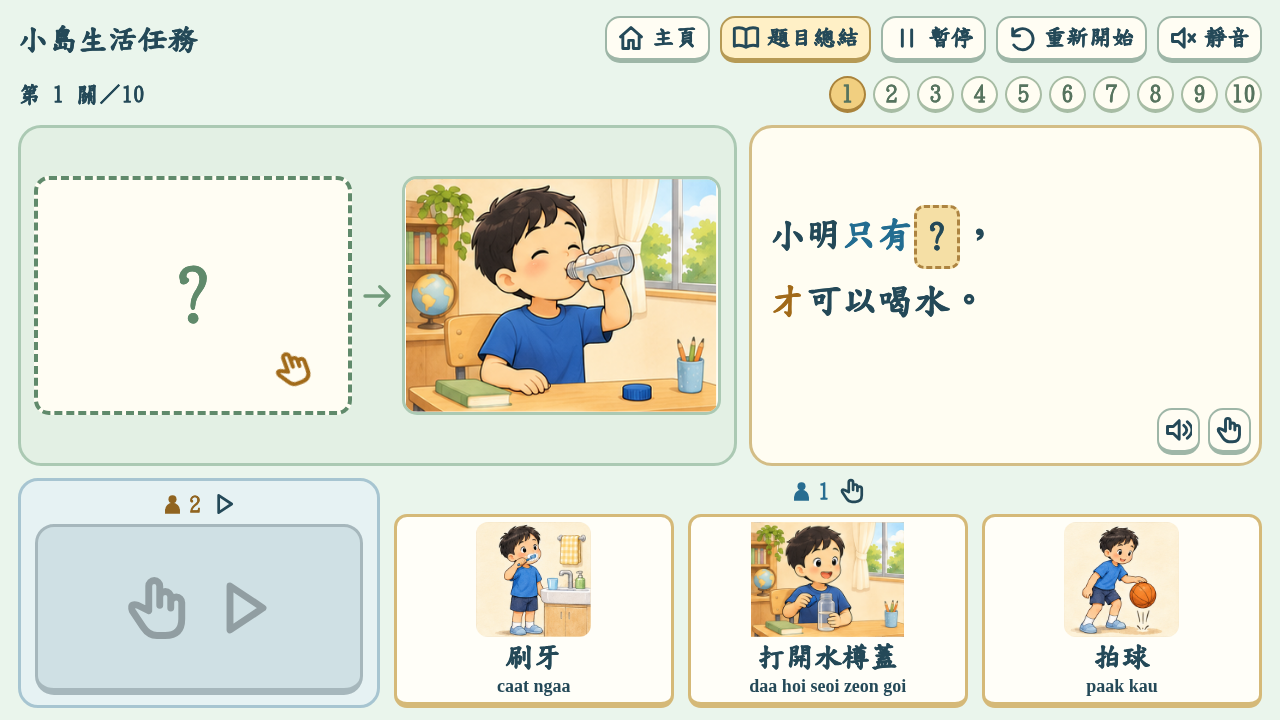
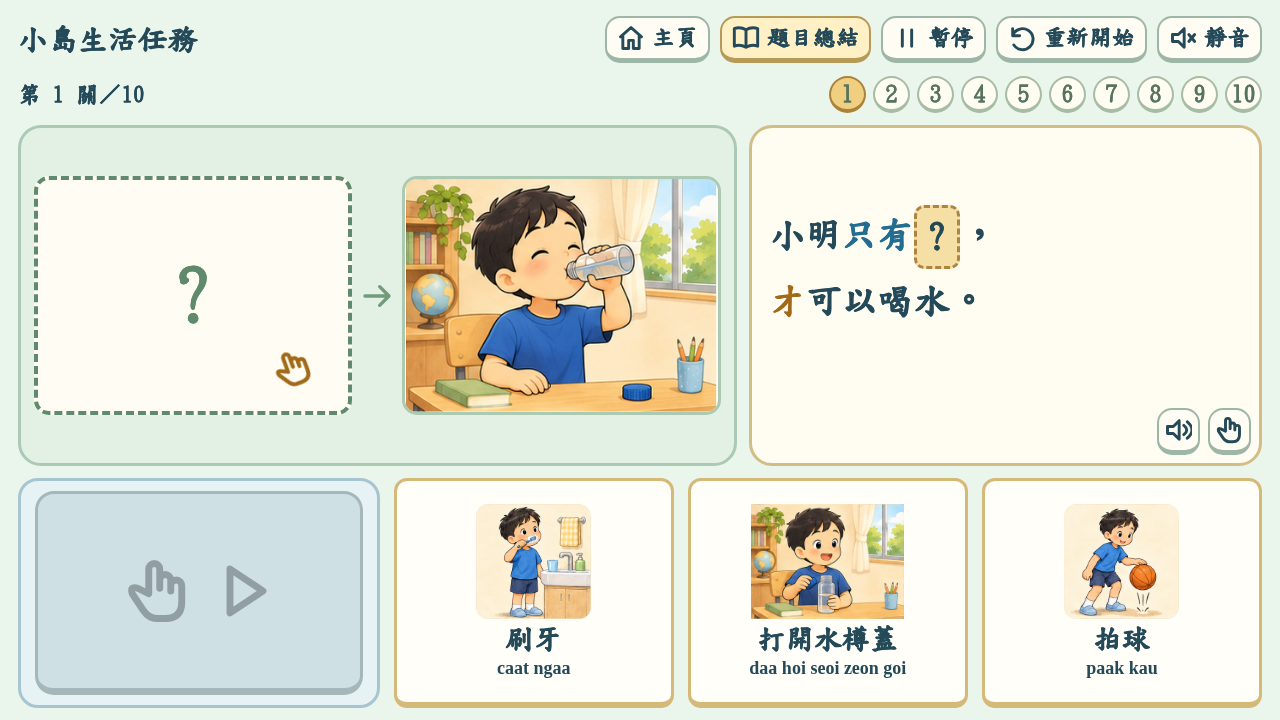
Allow repeated picture choices and simplify life feedback

Changed region(s): [[0.0312, 0.6417, 1.0, 0.9778], [0.0938, 0.7639, 0.2188, 0.8861], [0.7812, 0.6417, 0.9688, 0.6722]]

diff --git a/dist/app.js b/dist/app.js
@@ -1,8 +1,8 @@
-import {newRound,roles,choose,perform,place,remove,checkTrain,canAdvance} from './engine.js';
+import {newRound,roles,choose,perform,place,remove,checkTrain,canAdvance} from './engine.js?v=retry3';
 import {TRAIN_CARRIAGE_ART} from './train-art.js';
 const app=document.querySelector('#app'),live=document.querySelector('#live');
-const content=await fetch('content.json').then(r=>{if(!r.ok)throw Error('題庫未能載入');return r.json();});
-const ready=await fetch('audio-ready.json').then(r=>r.json());
+const content=await fetch('content.json',{cache:'no-cache'}).then(r=>{if(!r.ok)throw Error('題庫未能載入');return r.json();});
+const ready=await fetch('audio-ready.json',{cache:'no-cache'}).then(r=>r.json());
 const audioFiles=new Set(ready.files);
 const titles={life:'小島生活任務',train:'小島句子列車'};
 let game=null,page='home',kind='life',muted=false,lastFrame=performance.now(),serial=0,audioTicket=0,audioPending=false,audioEnd=null,lastSpoken=null;
@@ -51,8 +51,7 @@ function homeMarkup(){return `<section class="home-title"><h1><span>……</span
 function introMarkup(){const q=content[kind][0];return `<section class="intro-layout"><div class="intro-large">${kind==='life'?scenePic(q,q.resultFrame):'<img src="assets/train-station-v1.png" alt="彩繪蒸氣火車車站">'}</div><div class="intro-copy"><h2>${kind==='life'?'一人選圖，一人做動作。':'把句子送上小火車！'}</h2>${kind==='train'?'<div class="train-tier-guide">'+difficulty(true,'1–3 關')+difficulty(false,'4–5 關')+'</div>':''}<div class="visual-steps">${kind==='life'?`<div>${scenePic(q,q.conditionFrame)}${icon('hand')}</div><span>→</span><div class="intro-blank">？</div><span>→</span><div class="action-demo">${icon('hand')}</div>`:`<div>${pairPic(q,0,'train-word-picture')}<b>看圖</b></div><span>→</span><div class="action-demo">${icon('hand')}<b>拖字卡</b></div><span>→</span><div>${icon('check')}<b>開車</b></div>`}</div><p>${kind==='life'?'選好圖卡，再由另一位同學按下動作按鈕。每題交換角色。':'逗號、句號，也要上車。'}</p><button class="primary ${kind==='life'?'mint':'train-primary'}" data-action="start">${icon('play')}開始${kind==='life'?'任務':'組句'}</button></div></section>`;}
 function difficulty(simple,stage){return `<div class="train-difficulty ${simple?'difficulty-simple':'difficulty-advanced'}"><span class="difficulty-stars" aria-hidden="true">${icon('star')}${simple?'':icon('star')}</span><strong>${simple?'初階':'高階'}</strong><b>${stage}</b></div>`;}
 function progress(){return `<div class="island-progress progress">${kind==='train'?difficulty(game.q.showLengthHints,'第 '+(game.index+1)+' 關'):`<strong>第 ${game.index+1} 關／${content[kind].length}</strong>`}${navigation(kind)}</div>`;}
-function lifeMarkup(){const g=game,q=g.q,answered=g.phase!=='choosing',r=roles(g.index),leftMissing=q.mode==='condition',blank=side=>!answered&&(side==='left'?leftMissing:!leftMissing);return `<div class="play-area island-play">${progress()}<section class="island-main life-board"><div class="island-scene"><div class="relation-board"><div class="relation-cell ${blank('left')?'empty-cell':''}" data-side="left">${blank('left')?'<span class="blank-symbol">？</span>':scenePic(q,q.conditionFrame)}${blank('left')?`<span class="pointing-hand" aria-hidden="true">${icon('hand')}</span>`:''}</div><span class="relation-arrow" aria-hidden="true">${icon('arrow')}</span><div class="relation-cell ${blank('right')?'empty-cell':''}" data-side="right">${blank('right')?'<span class="blank-symbol">？</span>':scenePic(q,q.resultFrame)}${blank('right')?`<span class="pointing-hand" aria-hidden="true">${icon('hand')}</span>`:''}</div><div class="demo-track" aria-hidden="true">${icon('hand')}</div></div></div><div class="island-prompt life-copy"><p class="sentence">${sentence(answered?q.sentence:q.prompt).replace('<span class="punct">，</span>','<span class="punct">，</span><br>')}</p><div class="island-feedback feedback" id="feedback" role="status">${g.phase==='selected'?`<span class="success-note">${icon('check')}${person(r.actor)}${icon('hand')}${icon('play')}</span>`:g.wrong.length?`<span class="try-note">${icon('cross')}再試一試！</span>`:''}</div><div class="read-controls"><button class="small-control control" data-action="read" aria-label="重播題目或完整句子">${icon('sound')}</button><button class="small-control control" data-action="demo" aria-label="重播無文字操作示範">${icon('hand')}</button></div></div></section><section class="island-controls life-bottom"><div class="action-station"><div class="role-label role">${person(r.actor)}${icon('play')}</div><button class="action-button primary blue ${g.phase==='selected'?'ready-action':''}" data-action="act" aria-label="同學 ${r.actor} 觸發動作" ${g.phase==='selected'?'':'disabled'}><span class="action-symbols">${icon('hand')}${icon('play')}</span></button></div><div class="result-station choices-station"><div class="role-label role">${person(r.chooser)}${icon('hand')}</div><div class="island-options life-options">${q.options.map(id=>`<button class="word-card word-choice island-choice ${g.selected===id?(answered?'correct correct-card':'wrong wrong-card'):''}" data-option="${id}" ${answered?'disabled':''} aria-label="${esc(content.words[id].text)}">${wordFace(id)}${g.selected===id?`<span class="card-mark">${icon(answered?'check':'cross')}</span>`:''}</button>`).join('')}</div></div></section></div>`;}
-function person(n){return `<span class="person person-${n}" aria-label="同學 ${n}"><svg viewBox="0 0 40 40" aria-hidden="true"><circle cx="20" cy="11" r="7"/><path d="M7 36v-6a13 13 0 0 1 26 0v6z"/></svg><b>${n}</b></span>`;}
+function lifeMarkup(){const g=game,q=g.q,answered=g.phase!=='choosing',locked=g.phase==='acting',r=roles(g.index),leftMissing=q.mode==='condition',blank=side=>!answered&&(side==='left'?leftMissing:!leftMissing);return `<div class="play-area island-play">${progress()}<section class="island-main life-board"><div class="island-scene"><div class="relation-board"><div class="relation-cell ${blank('left')?'empty-cell':''}" data-side="left">${blank('left')?'<span class="blank-symbol">？</span>':scenePic(q,q.conditionFrame)}${blank('left')?`<span class="pointing-hand" aria-hidden="true">${icon('hand')}</span>`:''}</div><span class="relation-arrow" aria-hidden="true">${icon('arrow')}</span><div class="relation-cell ${blank('right')?'empty-cell':''}" data-side="right">${blank('right')?'<span class="blank-symbol">？</span>':scenePic(q,q.resultFrame)}${blank('right')?`<span class="pointing-hand" aria-hidden="true">${icon('hand')}</span>`:''}</div><div class="demo-track" aria-hidden="true">${icon('hand')}</div></div></div><div class="island-prompt life-copy"><p class="sentence">${sentence(answered?q.sentence:q.prompt).replace('<span class="punct">，</span>','<span class="punct">，</span><br>')}</p><div class="island-feedback feedback" id="feedback" role="status"></div><div class="read-controls"><button class="small-control control" data-action="read" aria-label="重播題目或完整句子">${icon('sound')}</button><button class="small-control control" data-action="demo" aria-label="重播無文字操作示範">${icon('hand')}</button></div></div></section><section class="island-controls life-bottom"><div class="action-station"><button class="action-button primary blue ${g.phase==='selected'?'ready-action':''}" data-action="act" aria-label="同學 ${r.actor} 觸發動作" ${g.phase==='selected'?'':'disabled'}><span class="action-symbols">${icon('hand')}${icon('play')}</span></button></div><div class="result-station choices-station"><div class="island-options life-options">${q.options.map(id=>`<button class="word-card word-choice island-choice ${g.selected===id&&answered?'correct correct-card':''}" data-option="${id}" ${locked?'disabled':''} aria-label="${esc(content.words[id].text)}">${wordFace(id)}</button>`).join('')}</div></div></section></div>`;}
 function engineArt(frame=0){return `<svg class="engine-art train-engine" data-engine data-frame="${frame}" viewBox="0 0 400 300" role="img" aria-label="彩繪蒸氣火車"><svg class="engine-window" x="0" y="0" width="400" height="300" viewBox="${frame%4*400} ${Math.floor(frame/4)*300} 400 300" overflow="hidden"><image href="assets/train-engine-16-v1.png" width="1600" height="1200"/></svg></svg>`;}
 function carriage(frame=0){const f=TRAIN_CARRIAGE_ART.frames[frame], [x,y,r,b]=f.bounds,w=r-x,h=b-y;return `<svg class="car-art painted-train-car" viewBox="0 0 258 270" aria-hidden="true"><svg class="car-window" x="${(258-w)/2}" y="${270-h}" width="${w}" height="${h}" viewBox="${x} ${y} ${w} ${h}" overflow="hidden"><image href="assets/train-carriages-16-v3.png" width="1086" height="1448"/></svg></svg>`;}
 function bankOrder(q){const n=q.tokens.length;return Array.from({length:n},(_,i)=>q.tokens[(i*3+2)%n]);} // 7 and 8 are coprime to 3.
@@ -68,7 +67,7 @@ function act(){const g=game;if(!g||!perform(g))return;stopAudio();app.classList.
 function check(){const g=game;if(!g)return;const v=checkTrain(g);if(!v)return;if(!v.correct){updateTrain();say(content.feedback['再試一試。']);return;}stopAudio();render();playAnswer(g);later(g,2800,()=>{g.animationDone=true;nextIfReady(g);});}
 function togglePause(){const g=game;if(!g)return;cancelDrags();g.paused=!g.paused;g.clock.paused=g.paused;app.classList.toggle('paused',g.paused);if(g.paused)speaker.pause();else if(audioPending&&!muted)speaker.play().catch(()=>audioFailure());const b=$('.pause-control');b.innerHTML=icon(g.paused?'play':'pause')+`<span>${g.paused?'繼續':'暫停'}</span>`;b.setAttribute('aria-pressed',String(g.paused));if(kind==='train'&&g.phase==='assembling')updateTrain();lastFrame=performance.now();if(!g.paused)nextIfReady(g);}
 function toggleSound(){muted=!muted;stopAudio();if(muted&&game&&['acting','departing'].includes(game.phase)){game.speechDone=true;nextIfReady(game);}const b=$('.sound-control');b.innerHTML=icon(muted?'mute':'sound')+`<span>${muted?'靜音':'聲音'}</span>`;b.setAttribute('aria-label',muted?'開啟聲音':'關閉聲音');b.setAttribute('aria-pressed',String(!muted));}
-app.addEventListener('click',e=>{const b=e.target.closest('button,[data-action="home"]');if(!b||b.disabled||e.defaultPrevented)return;const a=b.dataset.action;if(a==='home'){e.preventDefault();home();return;}if(a==='pause'){togglePause();return;}if(a==='restart'){completed[kind].clear();start();return;}if(a==='review'){review();return;}if(a==='sound'){toggleSound();return;}if(b.dataset.jump!==undefined){start(b.dataset.kind,Number(b.dataset.jump));return;}if(game?.paused)return;if(b.dataset.intro){intro(b.dataset.intro);return;}if(a==='start'){start();return;}if(b.dataset.audio){say(b.dataset.audio);return;}if(a==='act'){act();return;}if(a==='demo'){showDemo();return;}if(a==='read'){if(game.phase==='choosing')say(game.q.questionAudio);else if(game.phase==='selected')say(game.q.audio);else playAnswer(game);return;}if(b.dataset.option){const g=game,ok=choose(g,b.dataset.option);if(ok===null)return;stopAudio();render();say(ok?content.words[b.dataset.option].audio:content.feedback['再試一試。']);return;}if(b.dataset.slot!==undefined&&game?.selected){place(game,game.selected,Number(b.dataset.slot));updateTrain();check();return;}if(b.dataset.token&&game?.phase==='assembling'){game.selected=b.dataset.token;say(content.words[game.selected].audio);updateTrain();return;}if(b.id==='word-bank'&&game?.selected){remove(game,game.selected);updateTrain();}});
+app.addEventListener('click',e=>{const b=e.target.closest('button,[data-action="home"]');if(!b||b.disabled||e.defaultPrevented)return;const a=b.dataset.action;if(a==='home'){e.preventDefault();home();return;}if(a==='pause'){togglePause();return;}if(a==='restart'){completed[kind].clear();start();return;}if(a==='review'){review();return;}if(a==='sound'){toggleSound();return;}if(b.dataset.jump!==undefined){start(b.dataset.kind,Number(b.dataset.jump));return;}if(game?.paused)return;if(b.dataset.intro){intro(b.dataset.intro);return;}if(a==='start'){start();return;}if(b.dataset.audio){say(b.dataset.audio);return;}if(a==='act'){act();return;}if(a==='demo'){showDemo();return;}if(a==='read'){if(game.phase==='choosing')say(game.q.questionAudio);else if(game.phase==='selected')say(game.q.audio);else playAnswer(game);return;}if(b.dataset.option){const g=game,ok=choose(g,b.dataset.option);if(ok===null)return;stopAudio();render();say(ok?content.words[b.dataset.option].audio:content.feedback['請試一試。']);return;}if(b.dataset.slot!==undefined&&game?.selected){place(game,game.selected,Number(b.dataset.slot));updateTrain();check();return;}if(b.dataset.token&&game?.phase==='assembling'){game.selected=b.dataset.token;say(content.words[game.selected].audio);updateTrain();return;}if(b.id==='word-bank'&&game?.selected){remove(game,game.selected);updateTrain();}});
 // Multiple independent Pointer Events, one owner per card; no HTML5 drag dependency.
 app.addEventListener('pointerdown',e=>{const b=e.target.closest('[data-token]'),g=game;if(!b||b.disabled||g?.type!=='train'||g.paused||g.phase!=='assembling'||[...g.drags.values()].some(d=>d.id===b.dataset.token))return;const rect=b.getBoundingClientRect();g.drags.set(e.pointerId,{id:b.dataset.token,x:e.clientX,y:e.clientY,width:rect.width,height:rect.height,moved:false,ghost:null});app.setPointerCapture(e.pointerId);});
 app.addEventListener('pointermove',e=>{const g=game,d=g?.drags.get(e.pointerId);if(!d||g.paused)return;if(!d.moved&&Math.hypot(e.clientX-d.x,e.clientY-d.y)>8){d.moved=true;const original=$(`[data-token="${d.id}"]:not(:disabled)`);d.ghost=original.cloneNode(true);d.ghost.classList.add('drag-ghost');Object.assign(d.ghost.style,{width:d.width+'px',height:d.height+'px'});document.body.append(d.ghost);document.querySelectorAll(`[data-token="${d.id}"]`).forEach(el=>el.classList.add('dragging'));say(content.words[d.id].audio);}if(d.moved){e.preventDefault();Object.assign(d.ghost.style,{left:e.clientX-d.width/2+'px',top:e.clientY-d.height/2+'px'});document.querySelectorAll('.drop-target').forEach(el=>el.classList.remove('drop-target'));const target=document.elementFromPoint(e.clientX,e.clientY)?.closest('[data-slot]');target?.classList.add('drop-target');}});

diff --git a/dist/engine.js b/dist/engine.js
@@ -8,7 +8,7 @@ export class AnimationQueue {
 }
 export function newRound(type,index,content){const q=content[type][index];if(!q)throw new RangeError('No such question');return {type,index,q,clock:new AnimationQueue(),paused:false,phase:type==='life'?'choosing':'assembling',selected:null,wrong:[],slots:type==='train'?q.tokens.map(()=>null):[],drags:new Map(),animationDone:false,speechDone:false,advancing:false,startedAt:null,demo:0};}
 export function roles(i){return {chooser:i%2+1,actor:(i+1)%2+1};}
-export function choose(g,id){if(g.type!=='life'||g.paused||g.phase!=='choosing'||!g.q.options.includes(id))return null;g.selected=id;const correct=id===g.q.correct;g.wrong=correct?[]:[id];if(correct)g.phase='selected';return correct;}
+export function choose(g,id){if(g.type!=='life'||g.paused||!['choosing','selected'].includes(g.phase)||!g.q.options.includes(id))return null;g.selected=id;const correct=id===g.q.correct;g.wrong=correct?[]:[id];g.phase=correct?'selected':'choosing';return correct;}
 export function perform(g){if(g.paused||g.phase!=='selected')return false;g.phase='acting';g.startedAt=g.clock.position;return true;}
 export function place(g,id,target){if(g.paused||g.phase!=='assembling'||!g.q.tokens.includes(id)||!Number.isInteger(target)||target<0||target>=g.slots.length)return false;const origin=g.slots.indexOf(id),occupant=g.slots[target];if(origin===target||[...g.drags.values()].some(d=>d.id===occupant||d.id===id))return false;if(origin>=0)g.slots[origin]=occupant;g.slots[target]=id;g.wrong=[];g.selected=null;return true;}
 export function remove(g,id){if(g.paused||g.phase!=='assembling'||[...g.drags.values()].some(d=>d.id===id))return false;const i=g.slots.indexOf(id);if(i<0)return false;g.slots[i]=null;g.wrong=[];g.selected=null;return true;}

diff --git a/dist/index.html b/dist/index.html
@@ -9,7 +9,7 @@
   <link rel="icon" href="data:,">
   <link rel="stylesheet" href="reference-ui.css">
   <link rel="stylesheet" href="style.css?v=ui2">
-  <script type="module" src="app.js?v=ui2"></script>
+  <script type="module" src="app.js?v=retry3"></script>
 </head>
 <body><div id="app"></div><div id="live" class="sr-only" aria-live="polite"></div>
 <noscript>請開啟 JavaScript，開始小島遊戲。</noscript></body>

diff --git a/tests/production_audio.py b/tests/production_audio.py
@@ -12,6 +12,10 @@ args=parser.parse_args();base=args.base_url.rstrip('/')+'/'
 with urllib.request.urlopen(base+'content.json') as r:data=json.load(r)
 with urllib.request.urlopen(base+'audio-ready.json') as r:ready=json.load(r)
 assert set(ready['files'])=={a['file'] for a in data['audio'].values()}
+umbrella=next(q for q in data['train'] if q['scene']=='umbrella')
+assert umbrella['sentence']=='只有雨傘打開，才可以擋雨。'
+assert ''.join(data['words'][id]['text'] for id in umbrella['tokens'])==umbrella['sentence']
+assert data['audio'][umbrella['audio']]['text']==umbrella['sentence']
 results=[]
 def passed(name,details=''):
  results.append({'name':name,'status':'passed','details':details});print('PASS',name,flush=True)
@@ -31,8 +35,8 @@ with sync_playwright() as p:
  assert 'home-island-background-v1.png' in page.locator('body').evaluate('(el)=>getComputedStyle(el).backgroundImage')
  assert page.locator('body').evaluate('(el)=>getComputedStyle(el).fontWeight')=='900'
  durations=page.evaluate('''async files=>{const out={};for(const file of files){const a=document.createElement('audio');a.preload='metadata';await new Promise((resolve,reject)=>{const timer=setTimeout(()=>reject(Error('metadata timeout '+file)),20000);a.onloadedmetadata=()=>{clearTimeout(timer);resolve()};a.onerror=()=>{clearTimeout(timer);reject(Error('decode error '+file))};a.src=file;a.load()});if(!Number.isFinite(a.duration)||a.duration<=0)throw Error('invalid duration '+file);out[file]=a.duration;a.removeAttribute('src');a.load()}return out}''',ready['files'])
- assert len(durations)==78
- passed('all 78 real narration clips load and decode',{'count':len(durations),'totalSeconds':round(sum(durations.values()),2)})
+ assert len(durations)==len(data['audio'])
+ passed(f'all {len(durations)} real narration clips load and decode',{'count':len(durations),'totalSeconds':round(sum(durations.values()),2)})
  speaker='window.actualSpeakers[0]'
  for kind in ['life','train']:
   page.locator(f'[data-intro="{kind}"]').click();page.locator('button[data-action="review"]').first.click()
@@ -50,6 +54,16 @@ with sync_playwright() as p:
  passed('all 15 review sentences play their matching real clips; pause/resume/home cleanup')
  # An actual answer must finish before advancement, with default browser autoplay policy.
  page.locator('[data-intro="life"]').click();page.locator('[data-action="start"]').click();q=data['life'][0]
+ wrong=[id for id in q['options'] if id!=q['correct']]
+ for id in [wrong[0],wrong[0],q['correct'],wrong[1]]:
+  page.locator(f'[data-option="{id}"]').click()
+  page.wait_for_function(speaker+'.currentTime>.12 && !'+speaker+'.paused')
+  clip=data['words'][id]['audio'] if id==q['correct'] else data['feedback']['請試一試。']
+  assert page.evaluate(speaker+'.currentSrc').split('/')[-1]==clip+'.mp3'
+  assert page.locator('[data-option]:enabled').count()==3
+  assert page.locator('#feedback').inner_text()=='' and page.locator('#feedback svg,.role-label,.card-mark,.word-card.wrong').count()==0
+  assert page.locator('[data-action="act"]').is_enabled()==(id==q['correct'])
+ passed('life choices repeat/change with real 請試一試 narration and no feedback/role icons')
  page.locator(f'[data-option="{q["correct"]}"]').click();page.locator('[data-action="act"]').click()
  page.wait_for_timeout(3000)
  if durations[data['audio'][q['audio']]['file']]>2:

diff --git a/tests/browser.py b/tests/browser.py
@@ -52,21 +52,26 @@ with sync_playwright() as p:
      assert el.evaluate('(el)=>el.scrollHeight<=el.clientHeight+1'),el.inner_text()
     if i in [0,5] or kind=='train' and i==3:page.screenshot(path=str(OUT/f'{kind}-{i+1}-{width}.png'))
    record(f'{width}×{height} {kind}: all question layouts and cards fit')
- # Island: every question, retries, action gate, alternation, left/right visual gap.
+ # Island: every option can repeat/change until action, with no visible feedback/role icons.
  page.set_viewport_size({'width':1280,'height':720});start(page,'life')
  for i,q in enumerate(DATA['life']):
   page.locator(f'[data-jump="{i}"]').click()
   assert page.locator('.empty-cell').get_attribute('data-side')==('left' if i<5 else 'right')
   assert '選條件' not in page.locator('main').inner_text() and '選結果' not in page.locator('main').inner_text()
-  wrong=next(id for id in q['options'] if id!=q['correct'])
-  page.locator(f'[data-option="{wrong}"]').click();assert page.locator('.word-card.wrong').count()==1
-  assert page.locator('[data-action="act"]').is_disabled()
-  page.locator(f'[data-option="{q["correct"]}"]').click()
-  assert page.locator('.gap').count()==0 and page.locator('[data-action="act"]').is_enabled()
+  wrong=[id for id in q['options'] if id!=q['correct']]
+  for id in [wrong[0],wrong[0],q['correct'],q['correct'],wrong[1],wrong[0],q['correct']]:
+   page.locator(f'[data-option="{id}"]').click()
+   assert page.locator('[data-option]:enabled').count()==3
+   assert page.locator('.word-card.wrong,.card-mark,.role-label').count()==0
+   assert page.locator('#feedback').inner_text()=='' and page.locator('#feedback svg').count()==0
+   if id==q['correct']:
+    assert page.locator('.gap').count()==0 and page.locator('[data-action="act"]').is_enabled()
+   else:
+    assert page.locator('.gap').count()==1 and page.locator('[data-action="act"]').is_disabled()
   expected=2 if i%2==0 else 1
   assert page.locator('[data-action="act"]').get_attribute('aria-label')==f'同學 {expected} 觸發動作'
   page.wait_for_timeout(100);assert page.locator('[aria-current="step"]').inner_text()==str(i+1)
- record('all 10 life questions: unique answer UI, retry, visual side, role/action gate')
+ record('all 10 life questions: repeated/changing choices, silent visual feedback, hidden role icons, action gate')
  # Real animation frames, direct freeze, controls responsive on pause, and cleanup.
  page.locator('[data-jump="0"]').click();q=DATA['life'][0]
  page.locator(f'[data-option="{q["correct"]}"]').click();page.locator('[data-action="act"]').click();page.wait_for_timeout(700)

diff --git a/scripts/build_content.py b/scripts/build_content.py
@@ -13,7 +13,7 @@ raw=[
 ('lift','小美','按下按鈕','可以叫來升降機',['可以刷牙','可以吃餅乾'])]
 trainraw=[
 ('box','我','打開盒蓋','可以拿出盒內的餅乾',['我','只有','打開盒蓋','，','才','可以拿出','盒內的餅乾','。']),
-('umbrella','雨傘','打開','可以擋雨',['雨傘','只有','打開','，','才','可以擋雨','。']),
+('umbrella','雨傘','打開','可以擋雨',['只有','雨傘','打開','，','才','可以擋雨','。']),
 ('glue','小明','打開膠水蓋','可以塗膠水',['小明','只有','打開','膠水蓋','，','才','可以塗膠水','。']),
 ('juice','我','投入硬幣','可以買到果汁',['我','只有','投入硬幣','，','才','可以買到','果汁','。']),
 ('flower','小花','得到水分','可以繼續生長',['小花','只有','得到水分','，','才','可以繼續','生長','。'])]
@@ -54,10 +54,10 @@ for i,(scene,subject,condition,result,tokens) in enumerate(trainraw):
   elif text in ['我','小明']:pic={'kind':'person','key':text}
   else:pic={'kind':'train','scene':scene,'panel':0 if text in [subject,condition,'打開','膠水蓋','投入硬幣','得到水分'] else 1}
   ids.append(word(text,pic))
- sentence=f'{subject}只有{condition}，才{result}。'
+ # Token order is also the canonical sentence, narration and review wording.
+ sentence=''.join(tokens)
  trains.append({'id':'train-'+scene,'scene':scene,'subject':subject,'condition':condition,'result':result,'sentence':sentence,'tokens':ids,'showLengthHints':i<3,'audio':clip(sentence,'sentence'),'frames':16})
-for text in ['再試一試。','答對了！'] : clip(text,'feedback')
-out={'life':levels,'train':trains,'words':words,'audio':audio,'feedback':{t:clip(t,'feedback') for t in ['再試一試。','答對了！']}}
+out={'life':levels,'train':trains,'words':words,'audio':audio,'feedback':{t:clip(t,'feedback') for t in ['再試一試。','答對了！','請試一試。']}}
 (root/'dist/content.json').write_text(json.dumps(out,ensure_ascii=False,indent=2)+'\n')
 if not (root/'dist/audio-ready.json').exists(): (root/'dist/audio-ready.json').write_text('{"files": []}\n')
 used=set(''.join(w['text'] for w in words.values())+''.join(q['sentence'] for q in levels+trains))

diff --git a/references/sources.md b/references/sources.md
@@ -15,10 +15,12 @@
 
 水樽圖曾重製以移除生成器加入的數字、回復正確圖集比例；書包圖移除桌上另一課本；校巴圖移除重複的已上車人物；果汁圖修正硬幣與投幣口的接觸方向。鑰匙題依使用者要求完全移除，未隨網站發布。
 
-粵語音檔規劃採 Microsoft Edge Read Aloud 的 `zh-HK-HiuMaanNeural`，並非香港中文大學錄音。本次 78 段配音均已生成，音檔文字、識別名稱、時長及 SHA-256 保存在 `references/audio-manifest.json`。
+粵語音檔規劃採 Microsoft Edge Read Aloud 的 `zh-HK-HiuMaanNeural`，並非香港中文大學錄音。目前 79 段配音均已生成，音檔文字、識別名稱、時長及 SHA-256 保存在 `references/audio-manifest.json`。
 
 本輪部署核查補記：「袋」的中大本字讀音列為 `doi6`，詞例包括布袋、手袋，並列出「筆」為配搭點；原暫訂 `doi2` 已改按本字讀音記錄。學生畫面仍顯示無聲調 `doi`。證據見 `references/cuhk-pages/888b.html`。
 
 本輪 UI 按使用者指示直接沿用上述參考版本的完整 `dist/style.css`，原樣存為本專案 `dist/reference-ui.css`；未修改參考專案。`ui-reference-manifest.json` 保存 SHA-256 與適配範圍。首頁／介紹頁沿用原版 `train-station-v1.png`；首頁新背景由 image_gen 產生，提示詞與核查見 `ui-background-generation.json`，原比例顯示，沒有烘焙文字。
 
 粗體標楷體採原版的 font-weight 900、font-synthesis: weight 與文字描邊設定；原教育部字型及「牀」補字檔保持原樣、授權說明保留。
+
+教師最新修訂已重新生成「只有雨傘打開，才可以擋雨。」及「請試一試。」兩段預錄音，仍使用相同香港粵語聲線及速率，按新文字產生雜湊 ID。雨傘情境圖與詞卡粵拼的意思沒有改變，保留原圖與逐字讀音，僅按新句子重排詞卡；舊句音檔已移除。

diff --git a/AGENTS.md b/AGENTS.md
@@ -6,7 +6,7 @@ Static site: `dist/`. Source of curriculum: `scripts/build_content.py` → `dist
 
 Run `npm run check`, `python3 scripts/check_assets.py`, and relevant real-browser checks. Run `npm run check:release` before any production deployment. Do not bypass missing narration, CUHK checks, image logic checks, or a failing release gate. See `references/validation.md` for current evidence and blockers. Tests must actually execute, not merely report a file-level pass.
 
-For text changes update pictures, Jyutping, audio text/hash IDs and review data together. All complete sentences use「主語＋只有＋條件，＋才＋結果。」. Keep large bold Kai Chinese, Times New Roman toneless Jyutping, full-width punctuation, no countdown, two-person cooperation, teacher navigation, direct freeze on pause, and full reviews.
+For text changes update pictures, Jyutping, audio text/hash IDs and review data together. Complete sentences use「主語＋只有＋條件，＋才＋結果。」except the teacher's latest umbrella correction「只有雨傘打開，才可以擋雨。」. Life choices remain repeatable until the action starts; wrong choices only play「請試一試。」without visual error feedback. Do not display the life success/role icon rows. Keep large bold Kai Chinese, Times New Roman toneless Jyutping, full-width punctuation, no countdown, two-person cooperation, teacher navigation, direct freeze on pause, and full reviews.
 
 Visually inspect every new image for physical logic and character duplication. Distinct frame hashes alone do not establish a correct 16-frame animation. Never substitute a mismatched old recording, a missing image, or a static frame for an unfinished asset. Keep source notices, original fonts, and image proportions.
 
